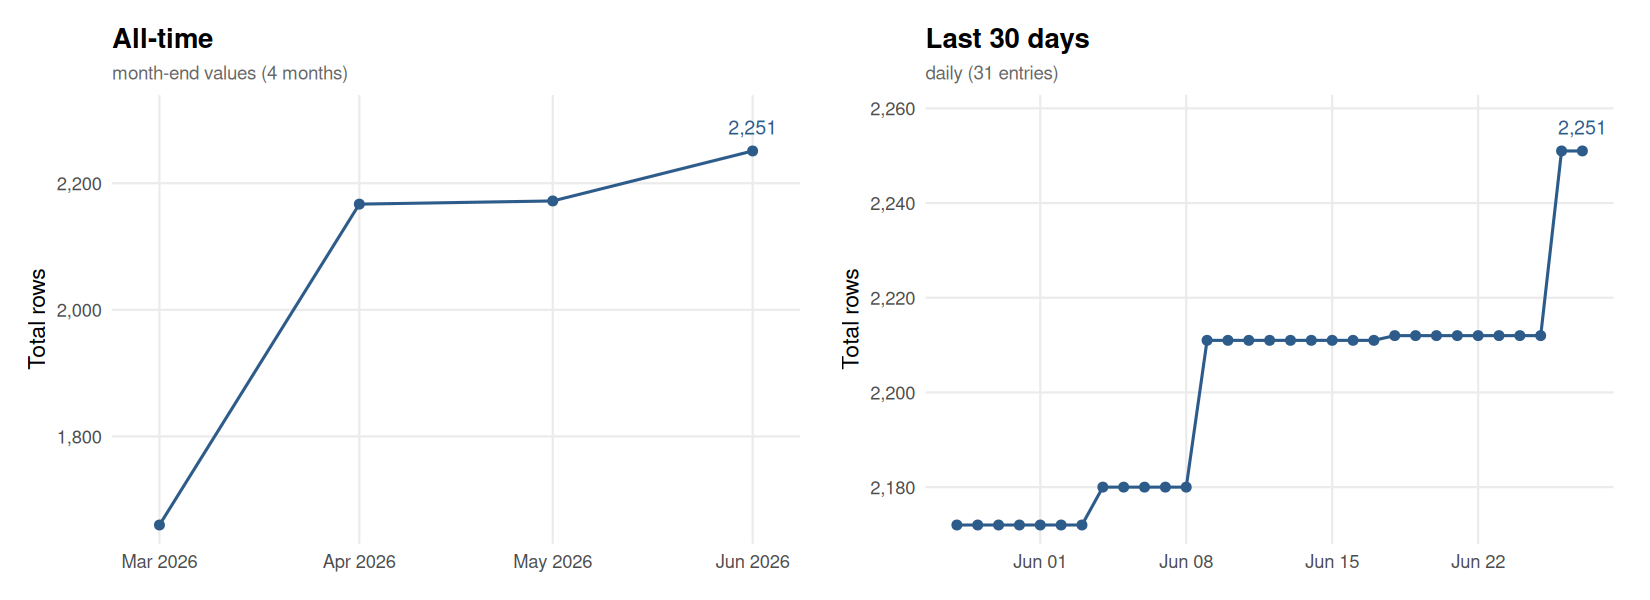
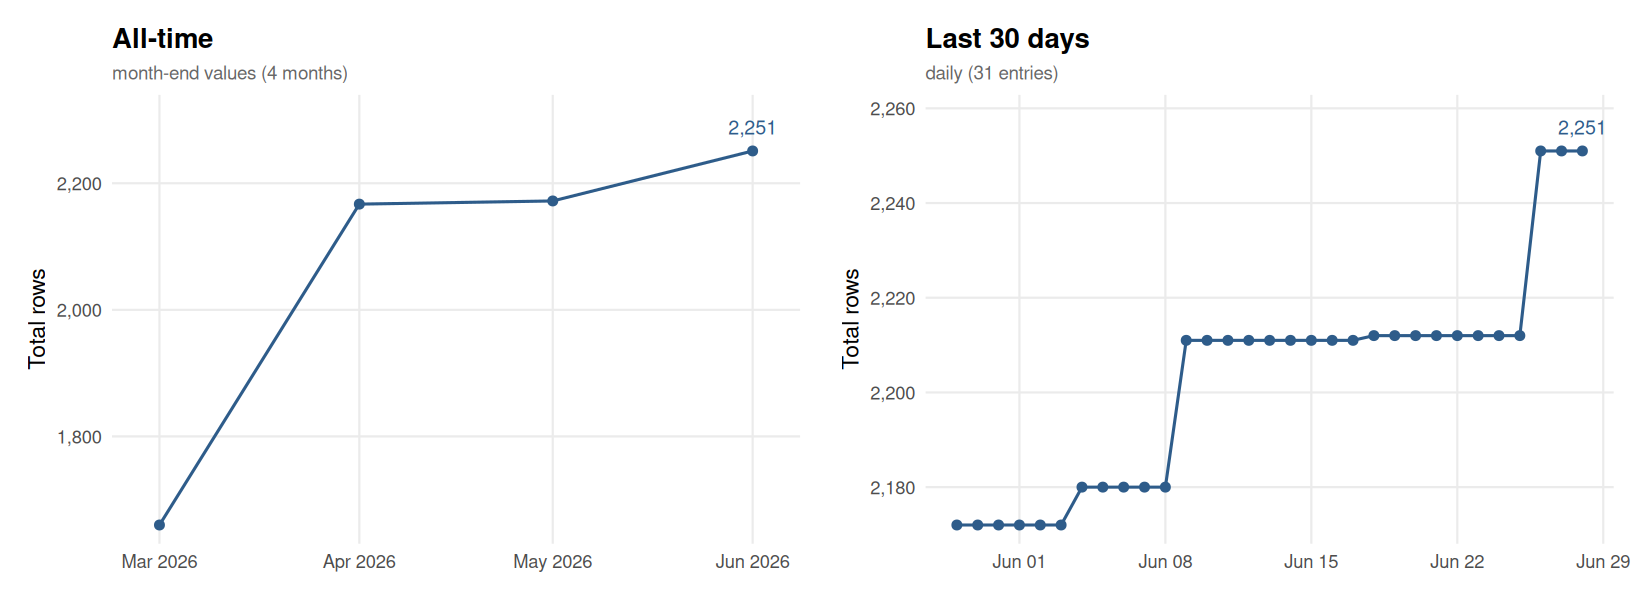
Update flora.csv [automated]

diff --git a/README.md b/README.md
@@ -438,14 +438,15 @@ For API issues:
 This chart is automatically updated after each pipeline run, showing the size of `output/flora.csv` over time.
 
 <!-- FLORA_UPDATE_LOG_START -->
-> **Latest (2026-06-27):** Total = 2,251 | Replications = 2,242 | Reproductions = 9
+> **Latest (2026-06-28):** Total = 2,251 | Replications = 2,242 | Reproductions = 9
 
 ![FLoRA dataset size over time](output/flora_history.png)
 
-<details><summary>Full history (100 entries)</summary>
+<details><summary>Full history (101 entries)</summary>
 
 | Date | Total | Replications | Reproductions |
 |------|------:|-------------:|--------------:|
+| 2026-06-28 | 2251 | 2242 | 9 |
 | 2026-06-27 | 2251 | 2242 | 9 |
 | 2026-06-26 | 2251 | 2242 | 9 |
 | 2026-06-25 | 2212 | 2203 | 9 |
